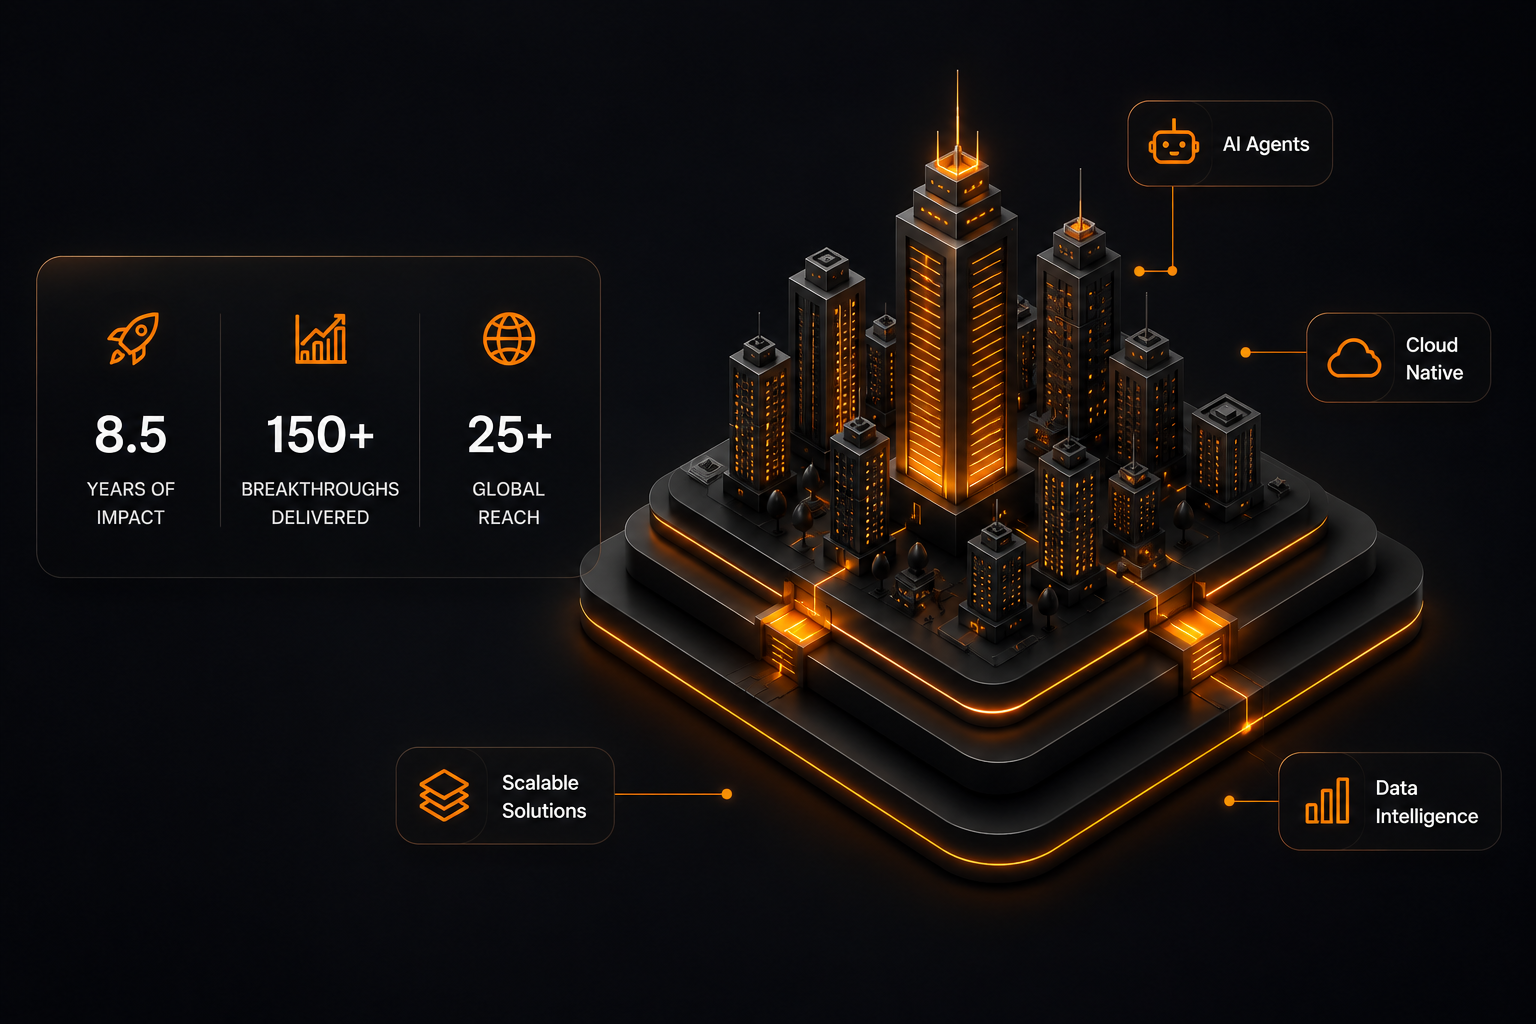
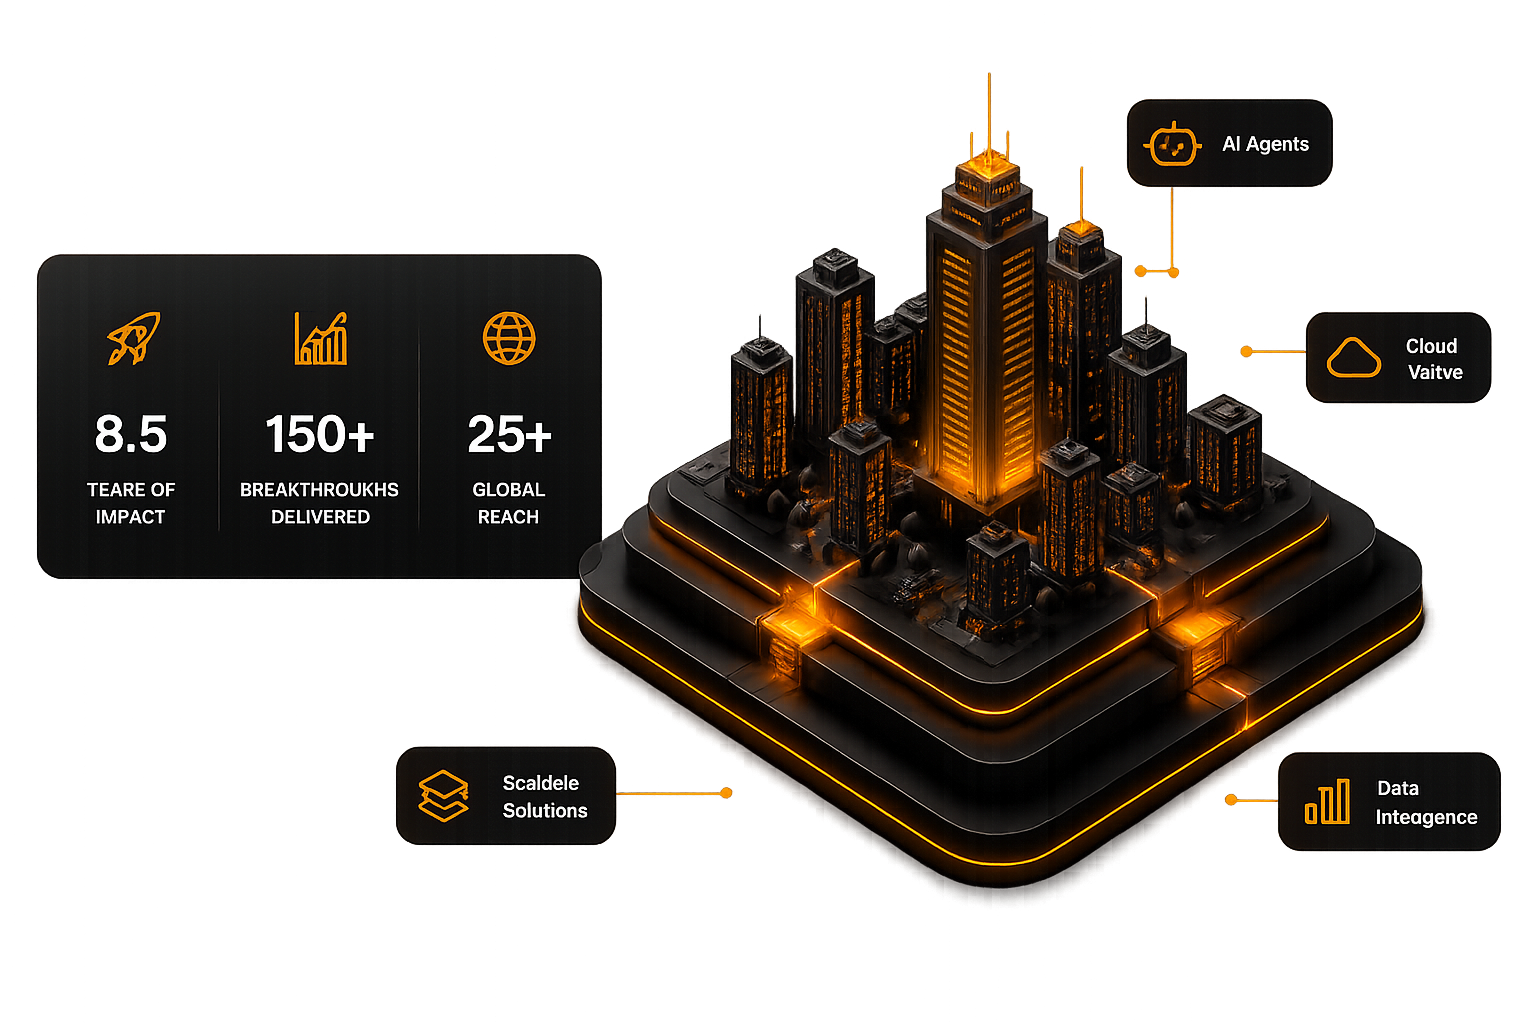
updated

diff --git a/src/components/site/Hero.tsx b/src/components/site/Hero.tsx
@@ -63,7 +63,7 @@ export function Hero({ theme }: HeroProps) {
       <div className="absolute -top-32 -left-20 h-[500px] w-[500px] rounded-full bg-primary/[0.08] blur-3xl pointer-events-none" />
       <div className="absolute inset-0 grid-bg opacity-[0.05] [mask-image:radial-gradient(ellipse_at_top_left,black,transparent_65%)] pointer-events-none" />
 
-      <div className="relative mx-auto max-w-7xl px-6">
+      <div className="relative mx-auto max-w-[1600px] px-5 sm:px-8 lg:px-12 xl:px-16">
         <div className="grid lg:grid-cols-2 gap-14 items-center">
 
           {/* LEFT — headline + copy + CTAs (unchanged) */}
